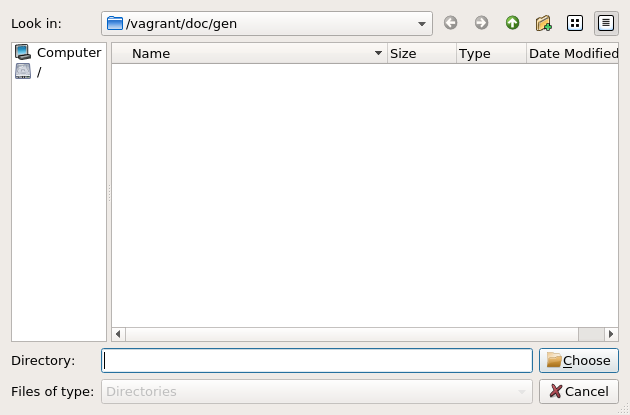
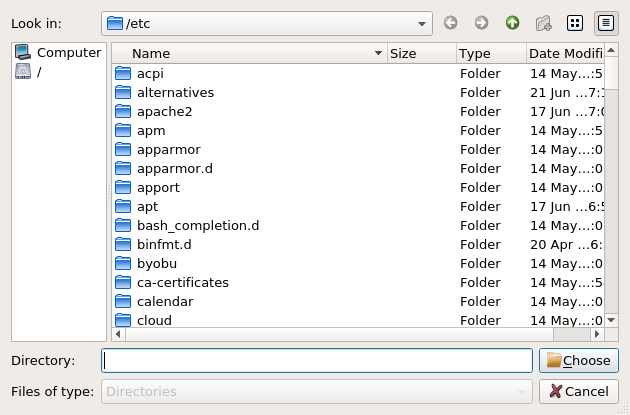
doc gen cwd=/etc

diff --git a/doc/generate-doc.py b/doc/generate-doc.py
@@ -2,6 +2,8 @@ import logging
 import os, psidialogs
 from time import sleep
 from PIL import Image, ImageChops
+import os
+import glob
 
 from easyprocess import EasyProcess
 from entrypoint2 import entrypoint
@@ -37,17 +39,28 @@ def autocrop(im, bgcolor):
     return None  # no contents
 
 
+def empty_dir(dir):
+    files = glob.glob(os.path.join(dir, "*"))
+    for f in files:
+        os.remove(f)
+
+
 @entrypoint
 def main():
+    gendir = os.path.join(os.path.dirname(os.path.abspath(__file__)), "gen")
+    logging.info("gendir: %s", gendir)
+    empty_dir(gendir)
     logging.info("commands: %s", commands)
     pls = []
     try:
-        os.chdir("gen")
+        cwd = os.getcwd()
+        os.chdir("/etc")
         for cmd, grab, bg in commands:
             with SmartDisplay() as disp:
                 logging.info("======== cmd: %s", cmd)
                 fname_base = cmd.replace(" ", "_")
                 fname = fname_base + ".txt"
+                fname = os.path.join(gendir, fname)
                 # logging.info("cmd: %s", cmd)
                 print("file name: %s" % fname)
                 with open(fname, "w") as f:
@@ -61,6 +74,7 @@ def main():
                     pls += [p]
                 if grab:
                     png = fname_base + ".png"
+                    png = os.path.join(gendir, png)
                     sleep(1)
                     img = disp.waitgrab(timeout=9)
                     logging.info("saving %s", png)
@@ -84,6 +98,7 @@ def main():
                     logging.info("======== cmd: %s", cmd)
                     with EasyProcess(cmd):
                         png = b + "_" + func + ".png"
+                        png = os.path.join(gendir, png)
                         sleep(0.1)
                         img = disp.waitgrab(timeout=9)
                         logging.info("saving %s", png)
@@ -95,7 +110,7 @@ def main():
                         img.save(png)
 
     finally:
-        os.chdir("..")
+        os.chdir(cwd)
         for p in pls:
             p.stop()
     embedme = EasyProcess(["npx", "embedme", "../README.md"])
